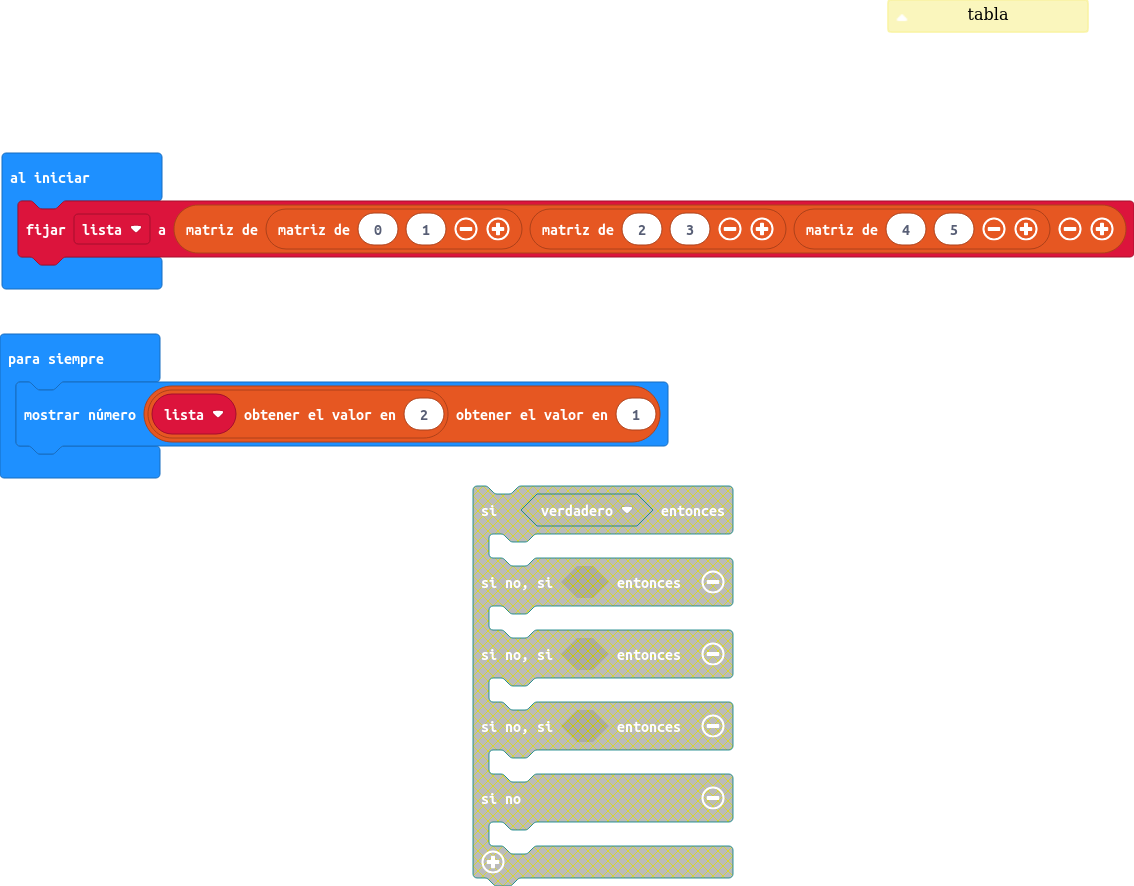
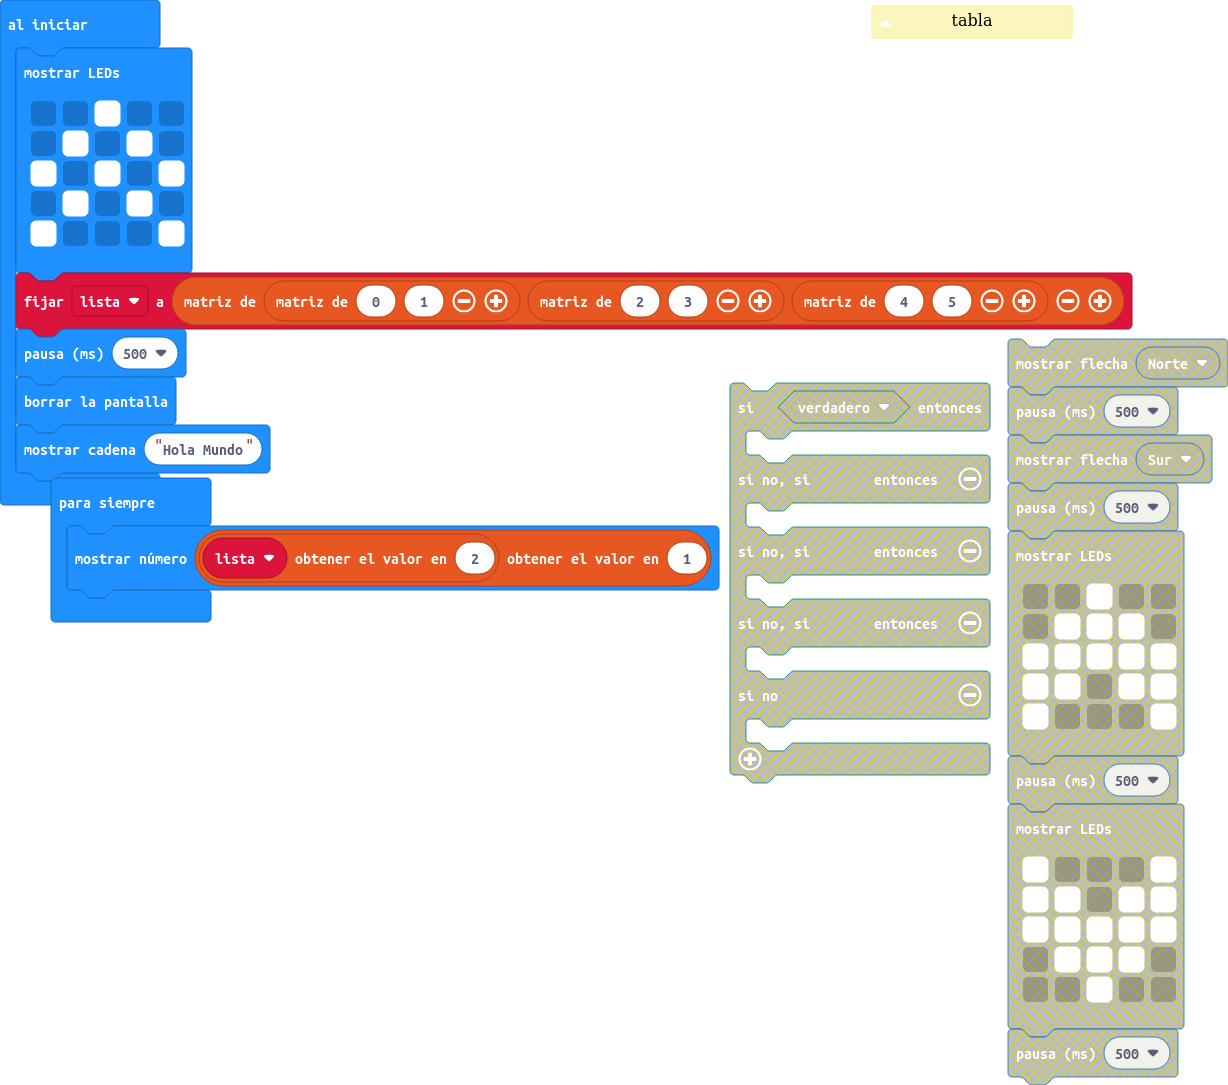
Actualizar main.blocks, main.ts

diff --git a/main.ts b/main.ts
@@ -1,7 +1,17 @@
 /**
  * tabla
  */
+basic.showLeds(`
+    . . # . .
+    . # . # .
+    # . # . #
+    . # . # .
+    # . . . #
+    `)
 let lista = [[0, 1], [2, 3], [4, 5]]
+basic.pause(500)
+basic.clearScreen()
+basic.showString("Hola Mundo")
 basic.forever(function () {
     basic.showNumber(lista[2][1])
 })
